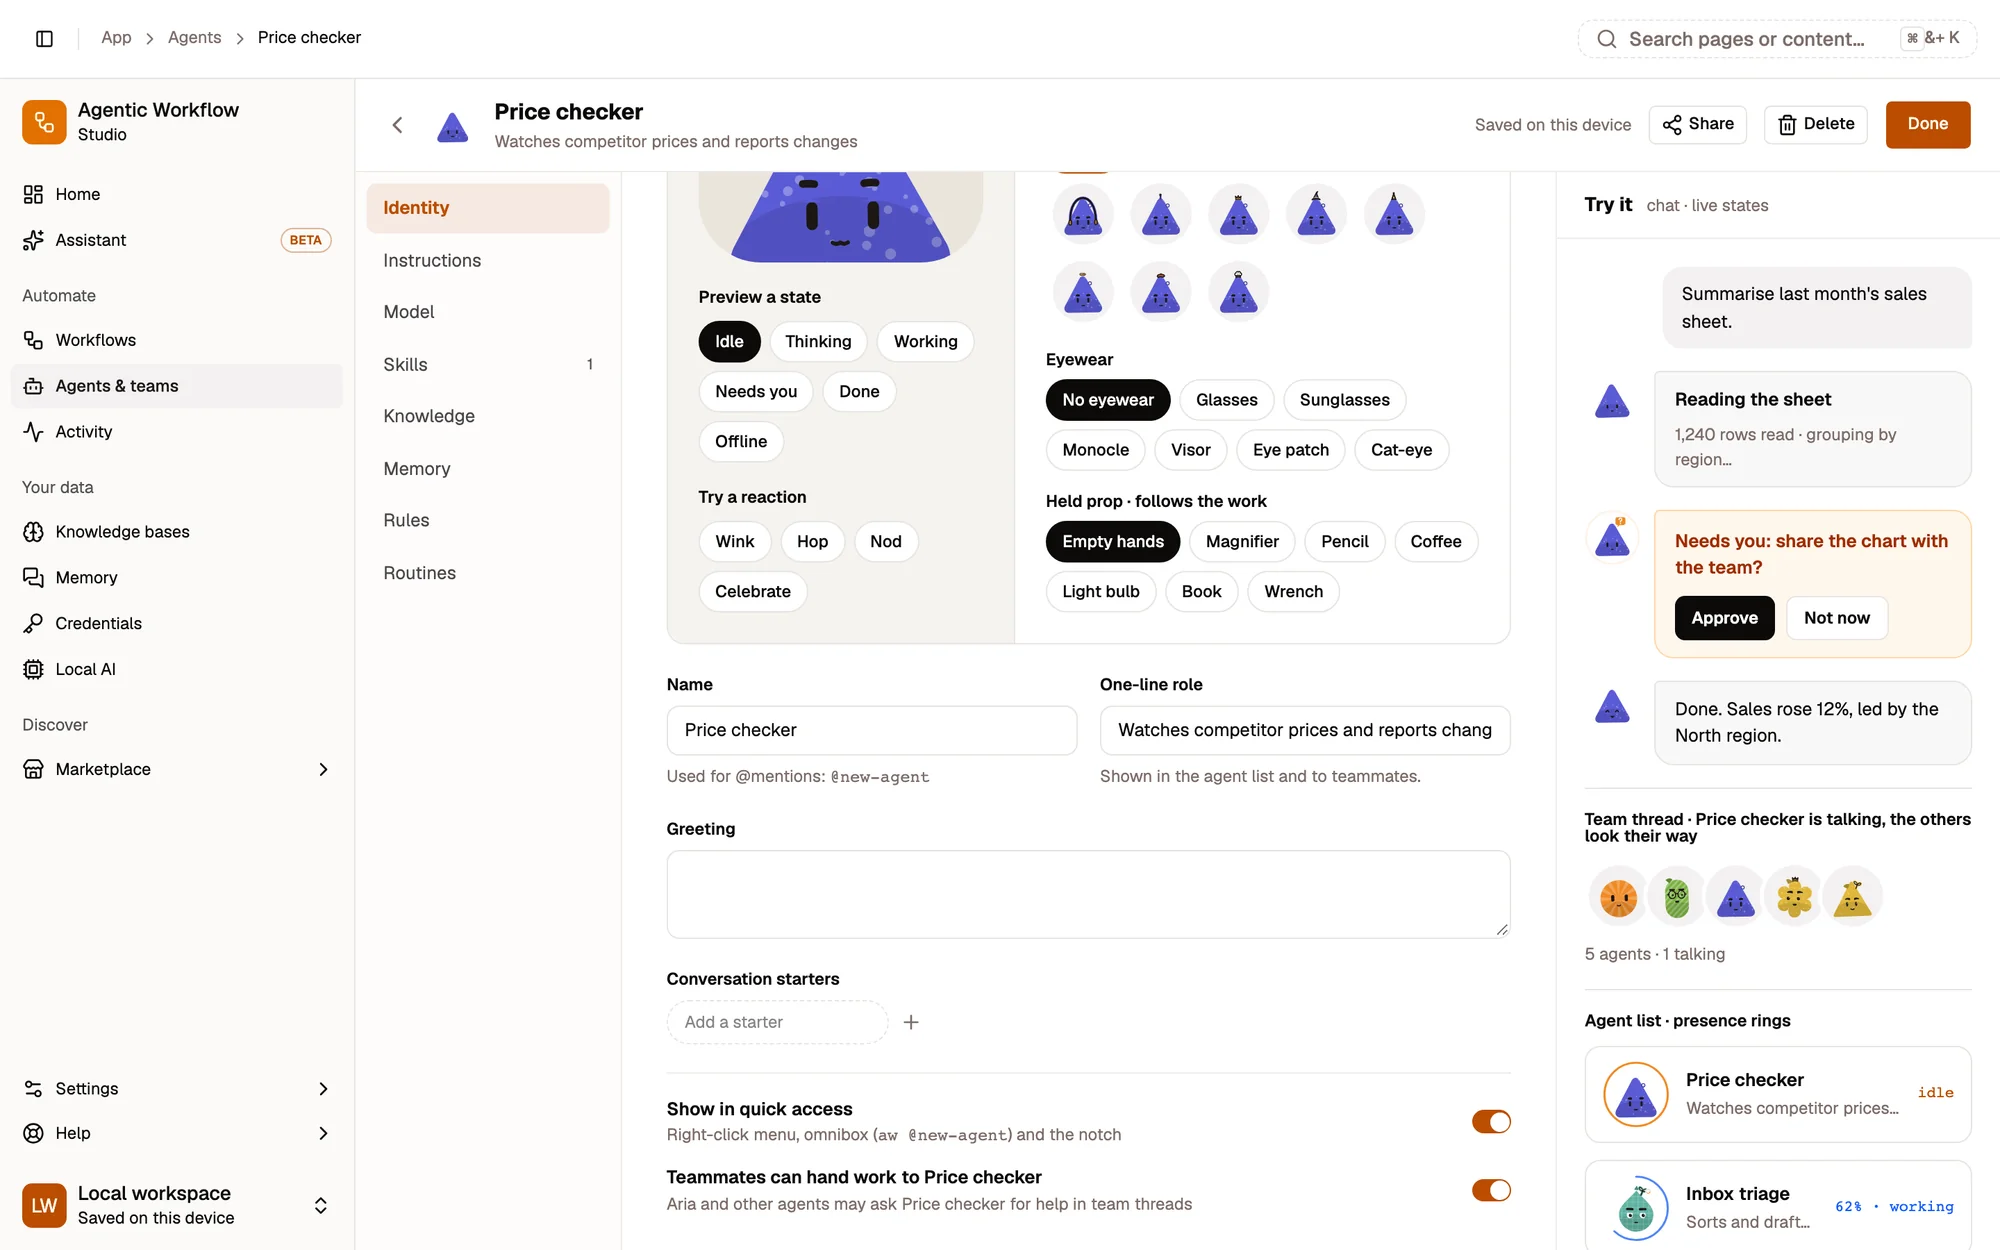
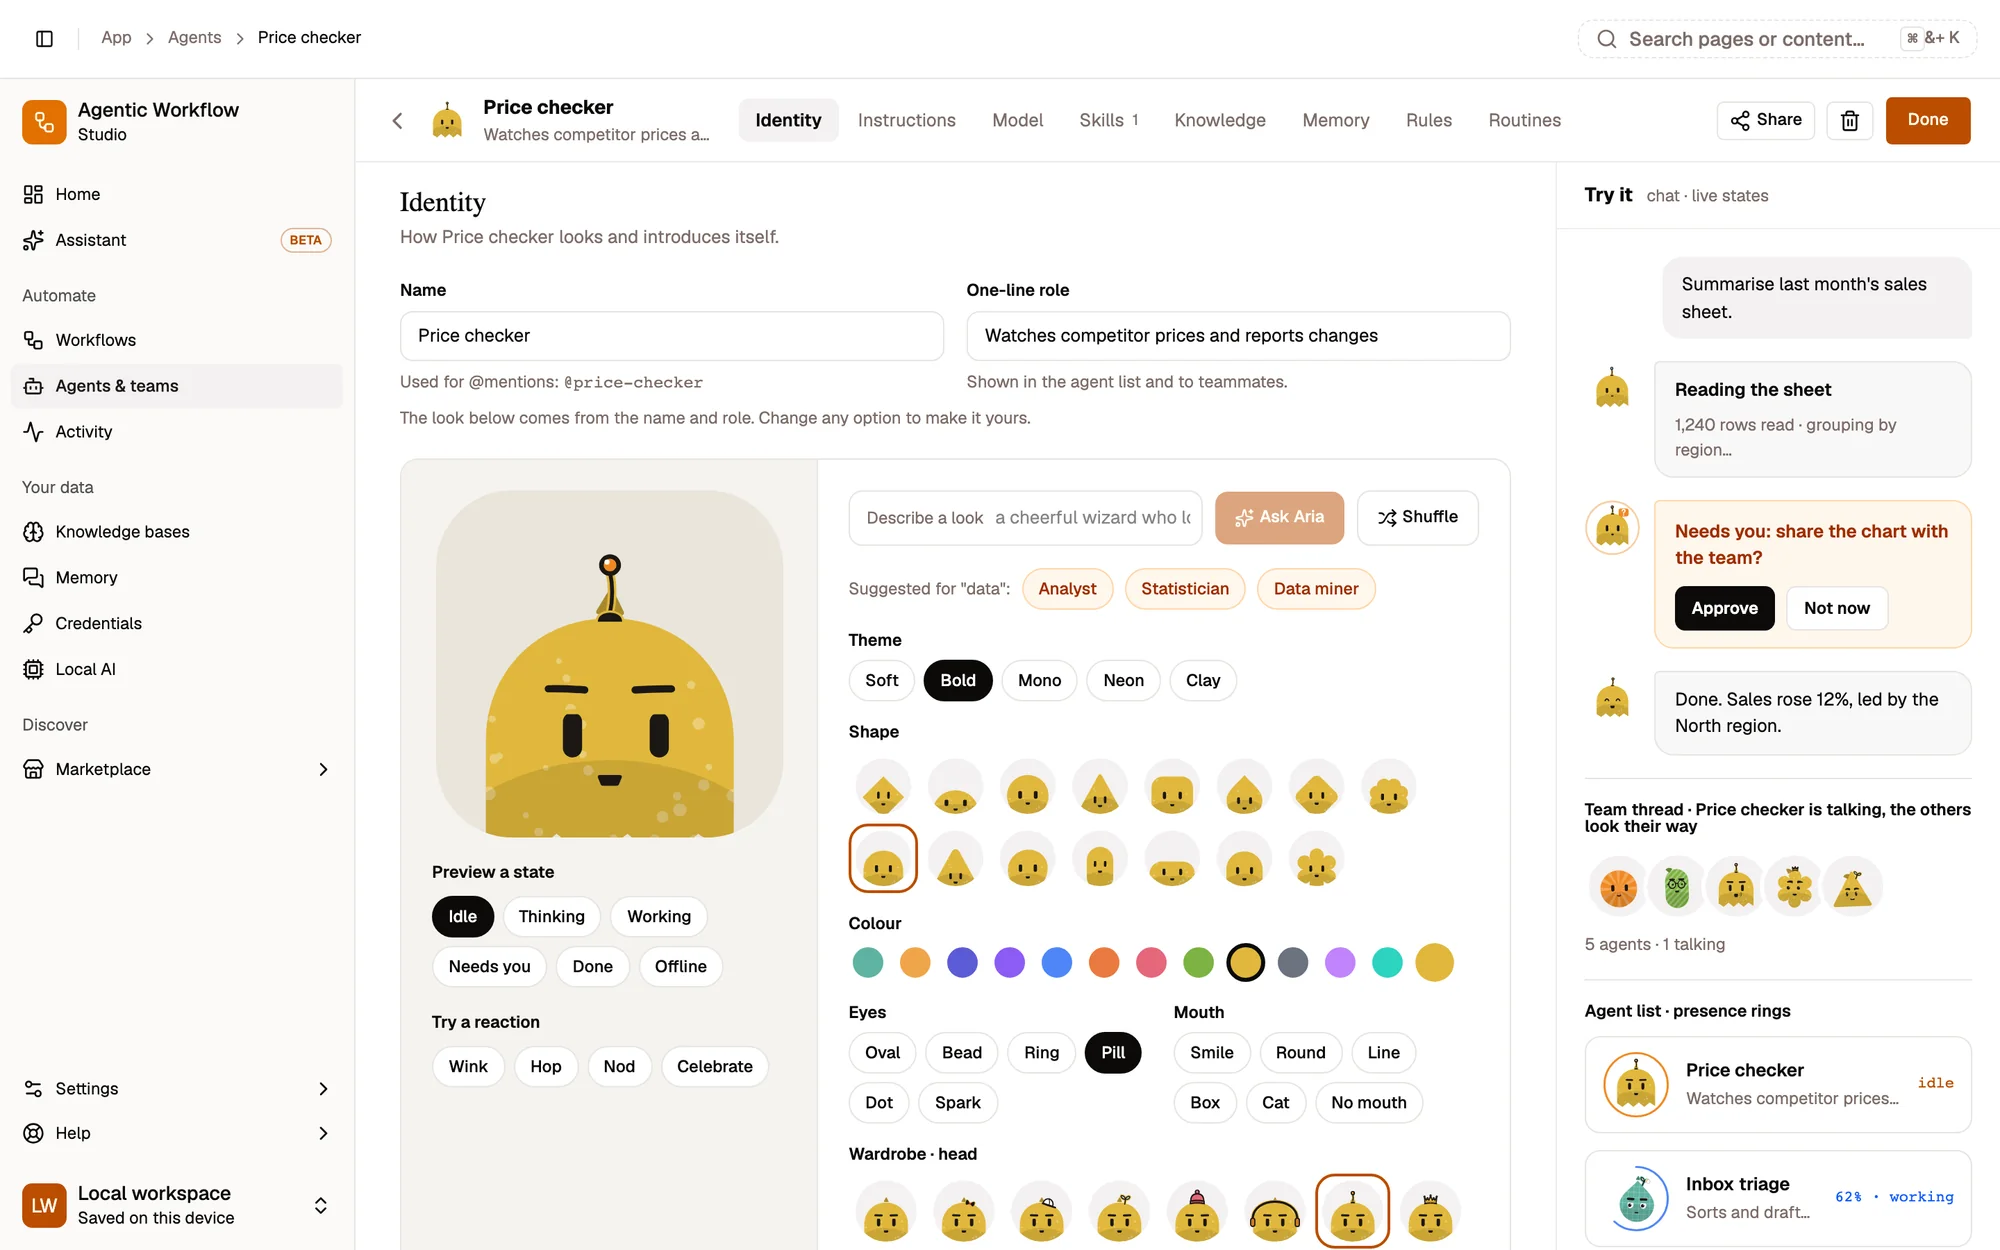
docs(agents): name first, header tabs, look and handle follow the name
The agent builder's tabs moved to the header and Name and One-line role
sit above the look studio. A new agent's look and @handle follow the
name as it is typed, until an option is changed (look) or the agent has
its first chat (handle). Re-captured the five builder screenshots.

diff --git a/scripts/capture/shots/ai.ts b/scripts/capture/shots/ai.ts
@@ -568,18 +568,19 @@ export const shots: ShotDef[] = [
 		name: 'agent-identity',
 		page: 'app/chat-and-agents/agent-builder',
 		route: '#/app/agents/<id>',
-		alt: "The Identity tab of the agent builder for a new agent, Price checker: the end of the look studio (headwear, eyewear and held prop) above the Name, One-line role, Greeting and Conversation starters fields, with the builder tabs on the left and the Try it rail on the right.",
+		alt: "The Identity tab of the agent builder for a new agent, Price checker, with the builder tabs in the header. At the top, Name (Price checker, used for @mentions as @price-checker) and One-line role (Watches competitor prices and reports changes), then the line The look below comes from the name and role. Change any option to make it yours, above the look studio with the generated look, a yellow ghost with an antenna. The Try it rail is on the right.",
 		note: 'The agent is created with Blank agent during capture and stays in the session.',
 		spots: [
 			{ id: 'tabs', label: 'Builder tabs', locator: btn(/^Identity/) },
 			{ id: 'name', label: 'Name', locator: (p) => p.getByRole('textbox', { name: /^Name/ }) },
 			{ id: 'role', label: 'One-line role', locator: (p) => p.getByRole('textbox', { name: /^One-line role/ }) },
+			{ id: 'look-follows', label: 'The look follows the name', locator: (p) => p.getByTestId('look-follows') },
 			{ id: 'done', label: 'Done', locator: btn('Done', true) }
 		],
 		prepare: async (s) => {
 			await closeOverlays(s);
 			await agentBuilder(s, 'Identity');
-			await scrollPane(s.page.getByRole('textbox', { name: /^Name/ }), 'center');
+			await scrollPane(s.page.getByRole('heading', { name: 'Identity' }).first(), 'start');
 			await s.page.waitForTimeout(500);
 		}
 	},
@@ -587,7 +588,7 @@ export const shots: ShotDef[] = [
 		name: 'agent-look',
 		page: 'app/chat-and-agents/agent-builder',
 		route: '#/app/agents/<id>',
-		alt: 'The Identity tab of the agent builder for Price checker, a blue square character. In the middle, the look studio: on the left a sticky preview with Preview a state chips (Idle, Thinking, Working, Needs you, Done, Offline) and Try a reaction buttons (Wink, Hop, Nod, Celebrate); on the right Describe a look with Ask Aria and Shuffle, role-named suggested looks, then Theme, Shape, Colour, Eyes, Mouth, Wardrobe · head, Eyewear and Held prop · follows the work pickers. In the right rail, Try it · chat · live states shows an example chat with the agent working, needing you and done, a team thread where the others look at the talking agent, and the agent list with presence rings.',
+		alt: 'The Identity tab of the agent builder for Price checker, with the builder tabs in the header and Name and One-line role at the top. Its look, generated from the name and role, is a yellow ghost with an antenna. Below, the look studio: on the left a sticky preview with Preview a state chips (Idle, Thinking, Working, Needs you, Done, Offline) and Try a reaction buttons (Wink, Hop, Nod, Celebrate); on the right Describe a look with Ask Aria and Shuffle, role-named suggested looks, then Theme, Shape, Colour, Eyes, Mouth, Wardrobe · head, Eyewear and Held prop · follows the work pickers. In the right rail, Try it · chat · live states shows an example chat with the agent working, needing you and done, a team thread where the others look at the talking agent, and the agent list with presence rings.',
 		note: 'The Identity tab for the Price checker agent made with Blank agent: look studio plus the Try it rail. A taller viewport fits the whole studio. The Upgrade face switch only shows for agents made before the new faces, so it is not in this shot.',
 		viewport: { width: 1440, height: 1560 },
 		spots: [
